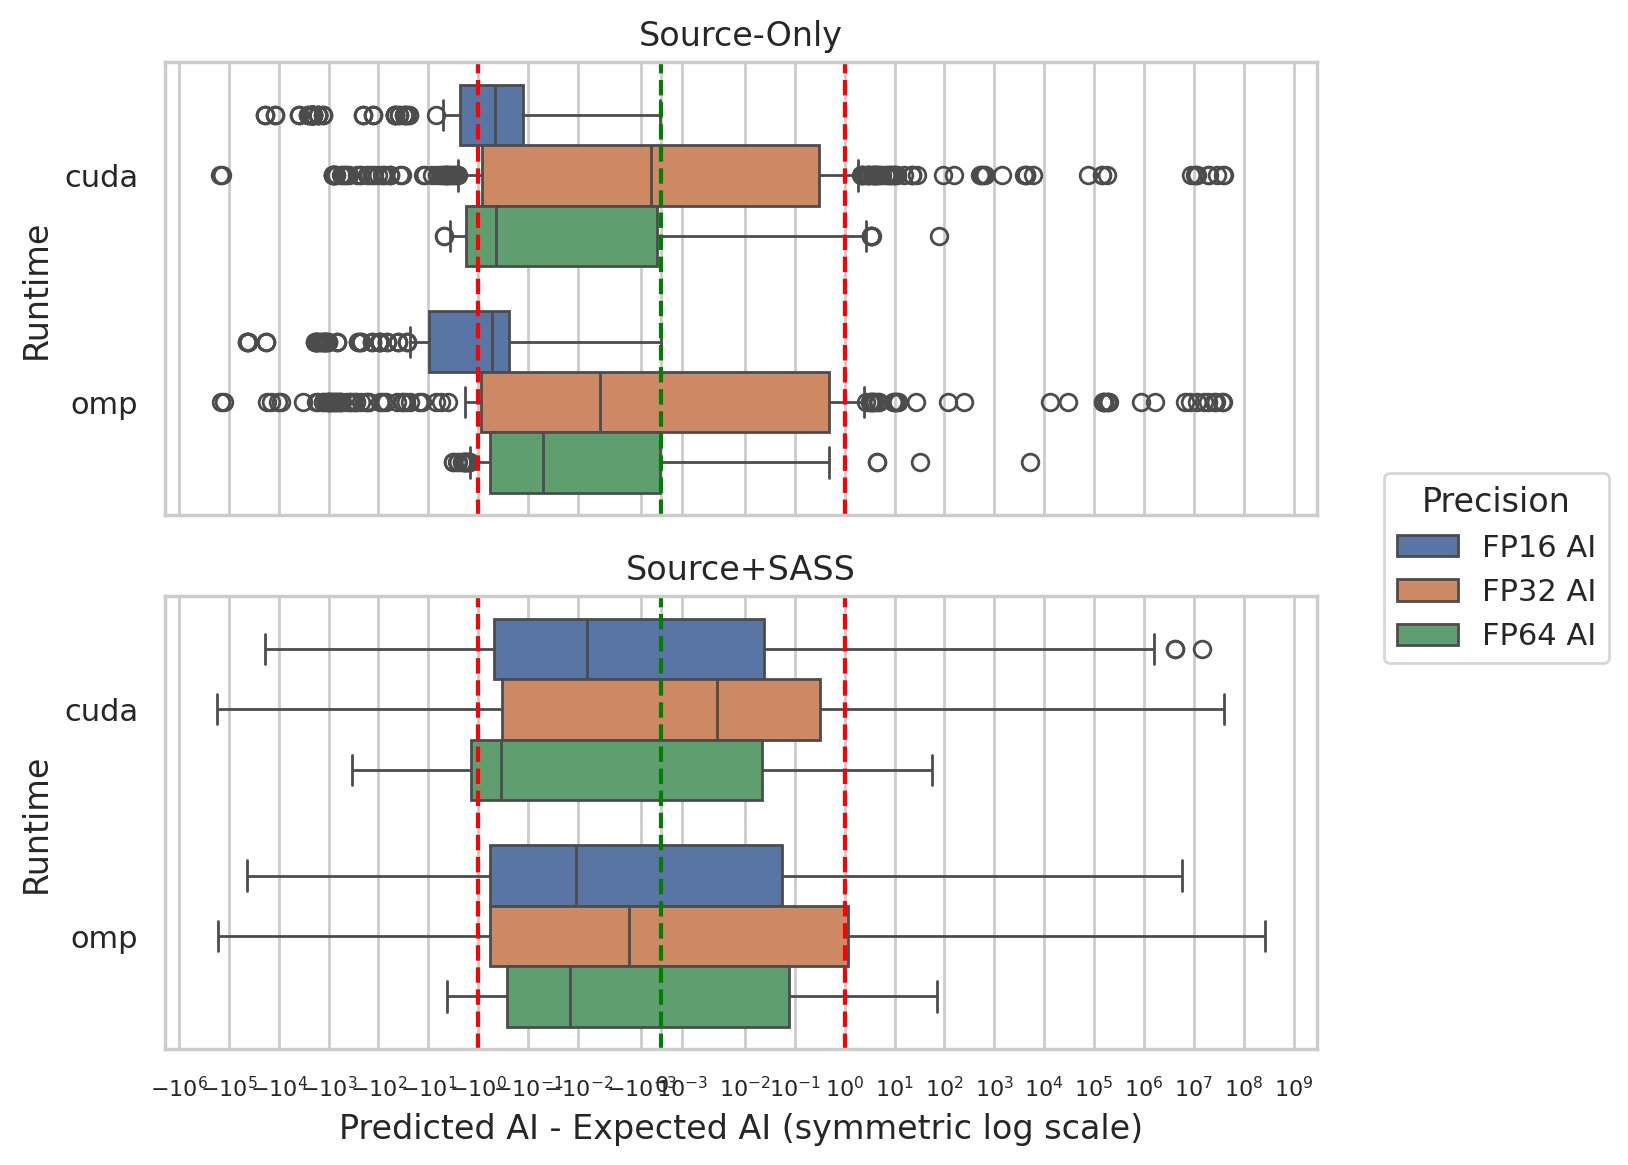
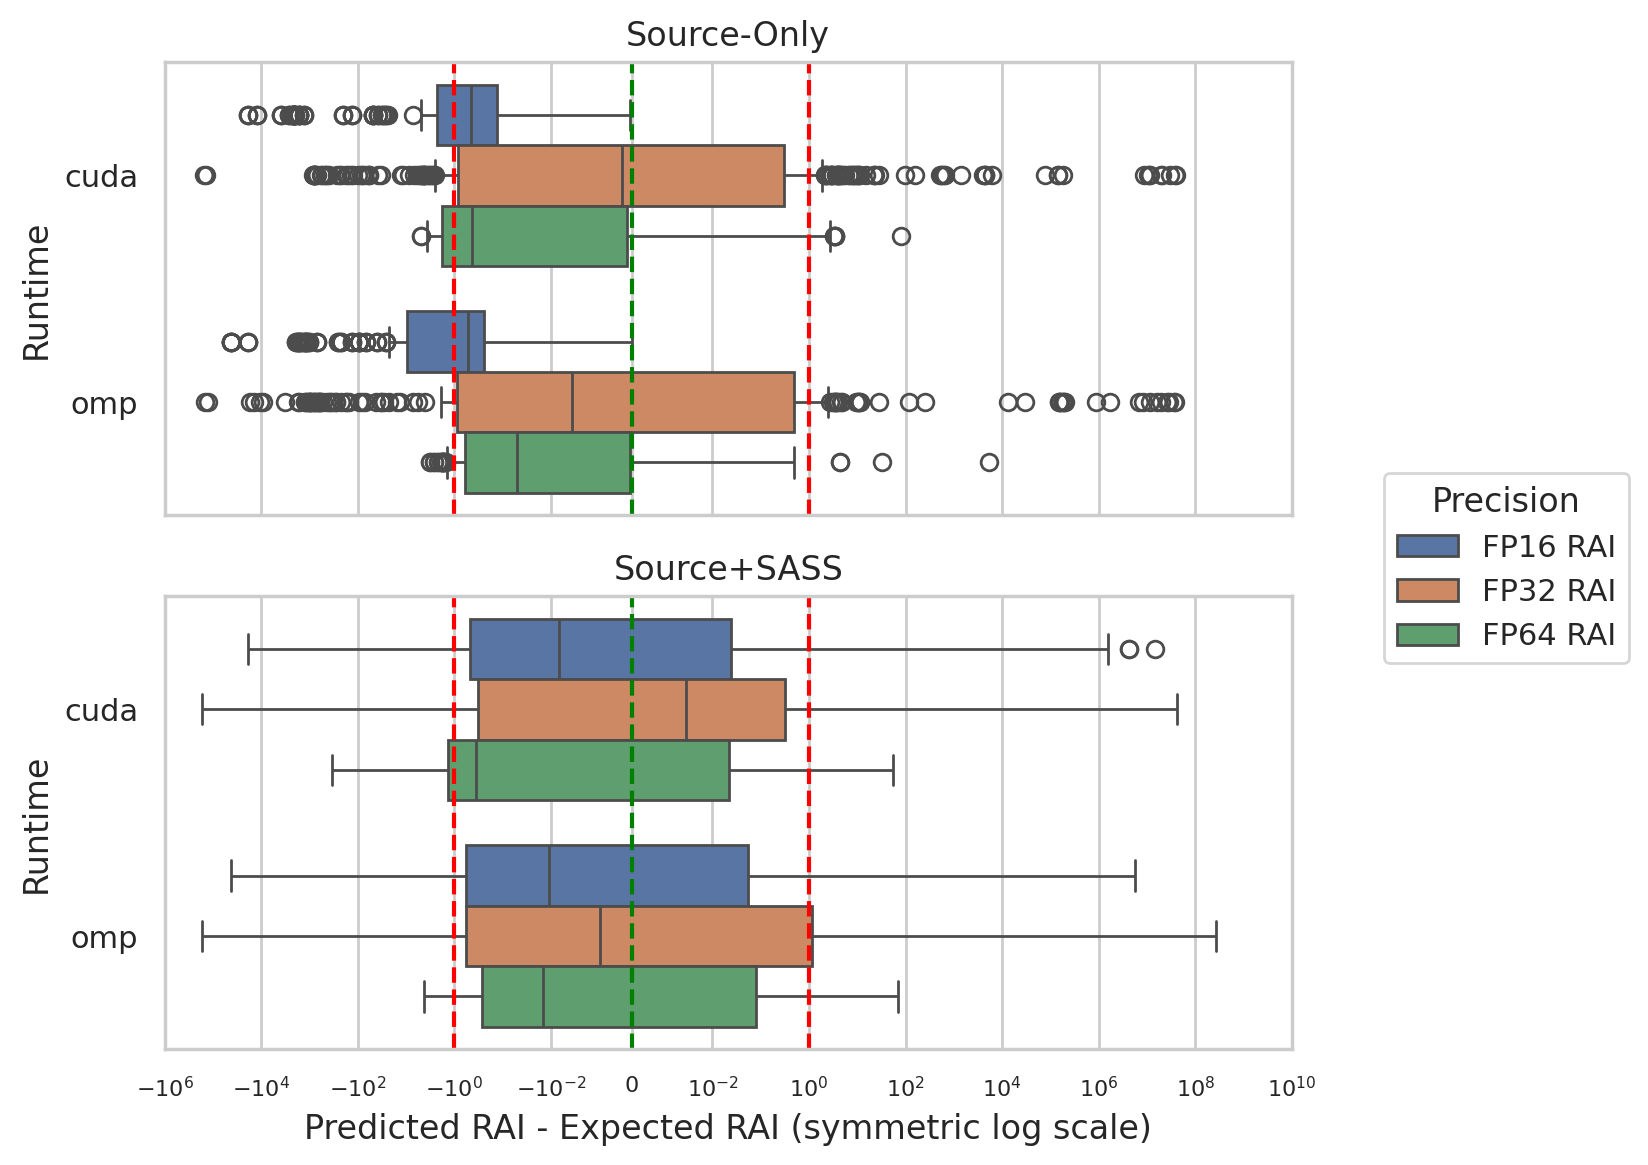
updated plots

diff --git a/experiments/direct-prompting/make_plots_for_paper.py b/experiments/direct-prompting/make_plots_for_paper.py
@@ -41,9 +41,9 @@ visualize_results = _load_module(
 
 AI_PRECISIONS = ["fp16", "fp32", "fp64"]
 AI_LABELS = {
-	"fp16": "FP16 AI",
-	"fp32": "FP32 AI",
-	"fp64": "FP64 AI",
+	"fp16": "FP16 RAI",
+	"fp32": "FP32 RAI",
+	"fp64": "FP64 RAI",
 }
 BOUND_LABELS = ["TP", "FP", "FN", "TN"]
 SASS_PANEL_ORDER = [False, True]
@@ -77,6 +77,22 @@ DEFAULT_OUTPUT_DIR = os.path.join(
 FIGURE_SIZE_SCALE = 0.78
 PAPER_LEGEND_RIGHT_MARGIN = 0.88
 PAPER_LEGEND_X = 0.89
+RAI_X_TICKS = [-1e6, -1e4, -1e2, -1e0, -1e-2, 0.0, 1e-2, 1e0, 1e2, 1e4, 1e6, 1e8, 1e10]
+RAI_X_TICK_LABELS = [
+	r"$-10^{6}$",
+	r"$-10^{4}$",
+	r"$-10^{2}$",
+	r"$-10^{0}$",
+	r"$-10^{-2}$",
+	"0",
+	r"$10^{-2}$",
+	r"$10^{0}$",
+	r"$10^{2}$",
+	r"$10^{4}$",
+	r"$10^{6}$",
+	r"$10^{8}$",
+	r"$10^{10}$",
+]
 
 GPU_ROOFLINE_TABLE = {
 	"3080": {
@@ -131,6 +147,13 @@ def _bounded_plot_height(
 
 def _scaled_figsize(width: float, height: float) -> tuple[float, float]:
 	return (width * FIGURE_SIZE_SCALE, height * FIGURE_SIZE_SCALE)
+
+
+def _set_rai_symlog_ticks(axis: plt.Axes) -> None:
+	axis.set_xlim(RAI_X_TICKS[0], RAI_X_TICKS[-1])
+	axis.xaxis.set_major_locator(mticker.FixedLocator(RAI_X_TICKS))
+	axis.xaxis.set_major_formatter(mticker.FixedFormatter(RAI_X_TICK_LABELS))
+	axis.xaxis.set_minor_locator(mticker.NullLocator())
 
 
 def _safe_divide(numerator: Any, denominator: Any) -> float:
@@ -301,7 +324,7 @@ def _paper_subset(completed_df: pd.DataFrame) -> pd.DataFrame:
 
 
 def _print_bound_class_distribution(plot_df: pd.DataFrame) -> None:
-	print("\nExpected bound-class distribution for nonzero expected AI cases used in paper figures:")
+	print("\nExpected bound-class distribution for nonzero expected RAI cases used in paper figures:")
 	for precision in AI_PRECISIONS:
 		expected_ai_column = f"expected_ai_{precision}"
 		expected_bound_column = f"expected_bound_{precision}"
@@ -309,7 +332,7 @@ def _print_bound_class_distribution(plot_df: pd.DataFrame) -> None:
 		precision_df = plot_df.loc[precision_mask, ["gpu", expected_bound_column]].copy()
 		print(f"- {precision.upper()}")
 		if precision_df.empty:
-			print("  No nonzero expected-AI samples")
+			print("  No nonzero expected-RAI samples")
 			continue
 		overall_counts = precision_df[expected_bound_column].value_counts().to_dict()
 		print(f"  Overall: {overall_counts}")
@@ -640,17 +663,17 @@ def _write_paper_summary_tables(plot_df: pd.DataFrame, output_dir: Path) -> None
 	bound_by_runtime = _summarize_bound_metrics(plot_df, ["runtime"])
 
 	summary_paths = {
-		"AI error summary by model": output_dir / "table_rq1_ai_error_by_model.csv",
-		"AI error summary by GPU": output_dir / "table_rq1_ai_error_by_gpu.csv",
-		"AI error summary by runtime": output_dir / "table_rq1_ai_error_by_runtime.csv",
+		"RAI error summary by model": output_dir / "table_rq1_ai_error_by_model.csv",
+		"RAI error summary by GPU": output_dir / "table_rq1_ai_error_by_gpu.csv",
+		"RAI error summary by runtime": output_dir / "table_rq1_ai_error_by_runtime.csv",
 		"Bound-class summary by model": output_dir / "table_rq1_bound_metrics_by_model.csv",
 		"Bound-class summary by GPU": output_dir / "table_rq1_bound_metrics_by_gpu.csv",
 		"Bound-class summary by runtime": output_dir / "table_rq1_bound_metrics_by_runtime.csv",
 	}
 
-	_write_summary_csv(ai_by_model, summary_paths["AI error summary by model"])
-	_write_summary_csv(ai_by_gpu, summary_paths["AI error summary by GPU"])
-	_write_summary_csv(ai_by_runtime, summary_paths["AI error summary by runtime"])
+	_write_summary_csv(ai_by_model, summary_paths["RAI error summary by model"])
+	_write_summary_csv(ai_by_gpu, summary_paths["RAI error summary by GPU"])
+	_write_summary_csv(ai_by_runtime, summary_paths["RAI error summary by runtime"])
 	_write_summary_csv(bound_by_model, summary_paths["Bound-class summary by model"])
 	_write_summary_csv(bound_by_gpu, summary_paths["Bound-class summary by GPU"])
 	_write_summary_csv(bound_by_runtime, summary_paths["Bound-class summary by runtime"])
@@ -659,28 +682,28 @@ def _write_paper_summary_tables(plot_df: pd.DataFrame, output_dir: Path) -> None
 		ai_long_df,
 		group_field="model_name",
 		group_label="Model",
-		table_label="figure1_ai_difference_summary",
+		table_label="figure1_rai_difference_summary",
 	)
 	figure3_summary = _format_boxplot_summary_table(
 		ai_long_df,
 		group_field="gpu",
 		group_label="GPU",
-		table_label="figure3_ai_difference_summary",
+		table_label="figure3_rai_difference_summary",
 	)
 	figure4_summary = _format_boxplot_summary_table(
 		ai_long_df,
 		group_field="runtime",
 		group_label="Runtime",
-		table_label="figure4_ai_difference_summary",
+		table_label="figure4_rai_difference_summary",
 	)
 
 	print(figure1_summary)
 	print(figure3_summary)
 	print(figure4_summary)
 
-	_print_summary_table("AI error summary by model / SASS / precision:", ai_by_model)
-	_print_summary_table("AI error summary by GPU / SASS / precision:", ai_by_gpu)
-	_print_summary_table("AI error summary by runtime / SASS / precision:", ai_by_runtime)
+	_print_summary_table("RAI error summary by model / SASS / precision:", ai_by_model)
+	_print_summary_table("RAI error summary by GPU / SASS / precision:", ai_by_gpu)
+	_print_summary_table("RAI error summary by runtime / SASS / precision:", ai_by_runtime)
 	_print_summary_table("Bound-class summary by model / SASS / precision:", bound_by_model)
 	_print_summary_table("Bound-class summary by GPU / SASS / precision:", bound_by_gpu)
 	_print_summary_table("Bound-class summary by runtime / SASS / precision:", bound_by_runtime)
@@ -787,8 +810,9 @@ def _save_ai_difference_boxplots(
 		axis.axvline(0.0, color="green", linestyle="--", linewidth=1.5)
 		axis.axvline(1.0, color="red", linestyle="--", linewidth=1.5)
 		axis.set_xscale("symlog", linthresh=linthresh)
+		_set_rai_symlog_ticks(axis)
 		axis.set_title(SASS_PANEL_LABELS[use_sass])
-		axis.set_xlabel("Predicted AI - Expected AI (symmetric log scale)")
+		axis.set_xlabel("Predicted RAI - Expected RAI (symmetric log scale)")
 		axis.set_ylabel(group_label)
 		axis.tick_params(axis="x", labelsize=8)
 		legend = axis.get_legend()
@@ -824,7 +848,7 @@ def _save_figure1_ai_boxplots(plot_df: pd.DataFrame, output_path: Path) -> None:
 		output_path,
 		group_field="model_name",
 		group_label="Model Name",
-		title="Arithmetic Intensity Difference by Model",
+		title="Roofline Arithmetic Intensity Difference by Model",
 	)
 
 
@@ -834,7 +858,7 @@ def _save_figure3_ai_boxplots_by_gpu(plot_df: pd.DataFrame, output_path: Path) -
 		output_path,
 		group_field="gpu",
 		group_label="GPU",
-		title="Arithmetic Intensity Difference by GPU",
+		title="Roofline Arithmetic Intensity Difference by GPU",
 	)
 
 
@@ -844,7 +868,7 @@ def _save_figure4_ai_boxplots_by_runtime(plot_df: pd.DataFrame, output_path: Pat
 		output_path,
 		group_field="runtime",
 		group_label="Runtime",
-		title="Arithmetic Intensity Difference by Runtime",
+		title="Roofline Arithmetic Intensity Difference by Runtime",
 	)
 
 
@@ -956,7 +980,7 @@ def _save_figure2_bound_heatmaps(plot_df: pd.DataFrame, output_path: Path) -> No
 	if hasattr(cbar_ax, "collections") and cbar_ax.collections:
 		cbar_ax.set_ylabel("Mean within-true-class prediction rate across FP16/FP32/FP64 (%)", rotation=90, labelpad=12)
 
-	fig.suptitle("AI Bound Classification by Expected vs Predicted Class")
+	fig.suptitle("RAI Bound Classification by Expected vs Predicted Class")
 	fig.subplots_adjust(left=0.09, right=0.9, top=0.92, bottom=0.08, hspace=0.5, wspace=0.28)
 	fig.savefig(output_path, dpi=200, bbox_inches="tight")
 	plt.close(fig)
